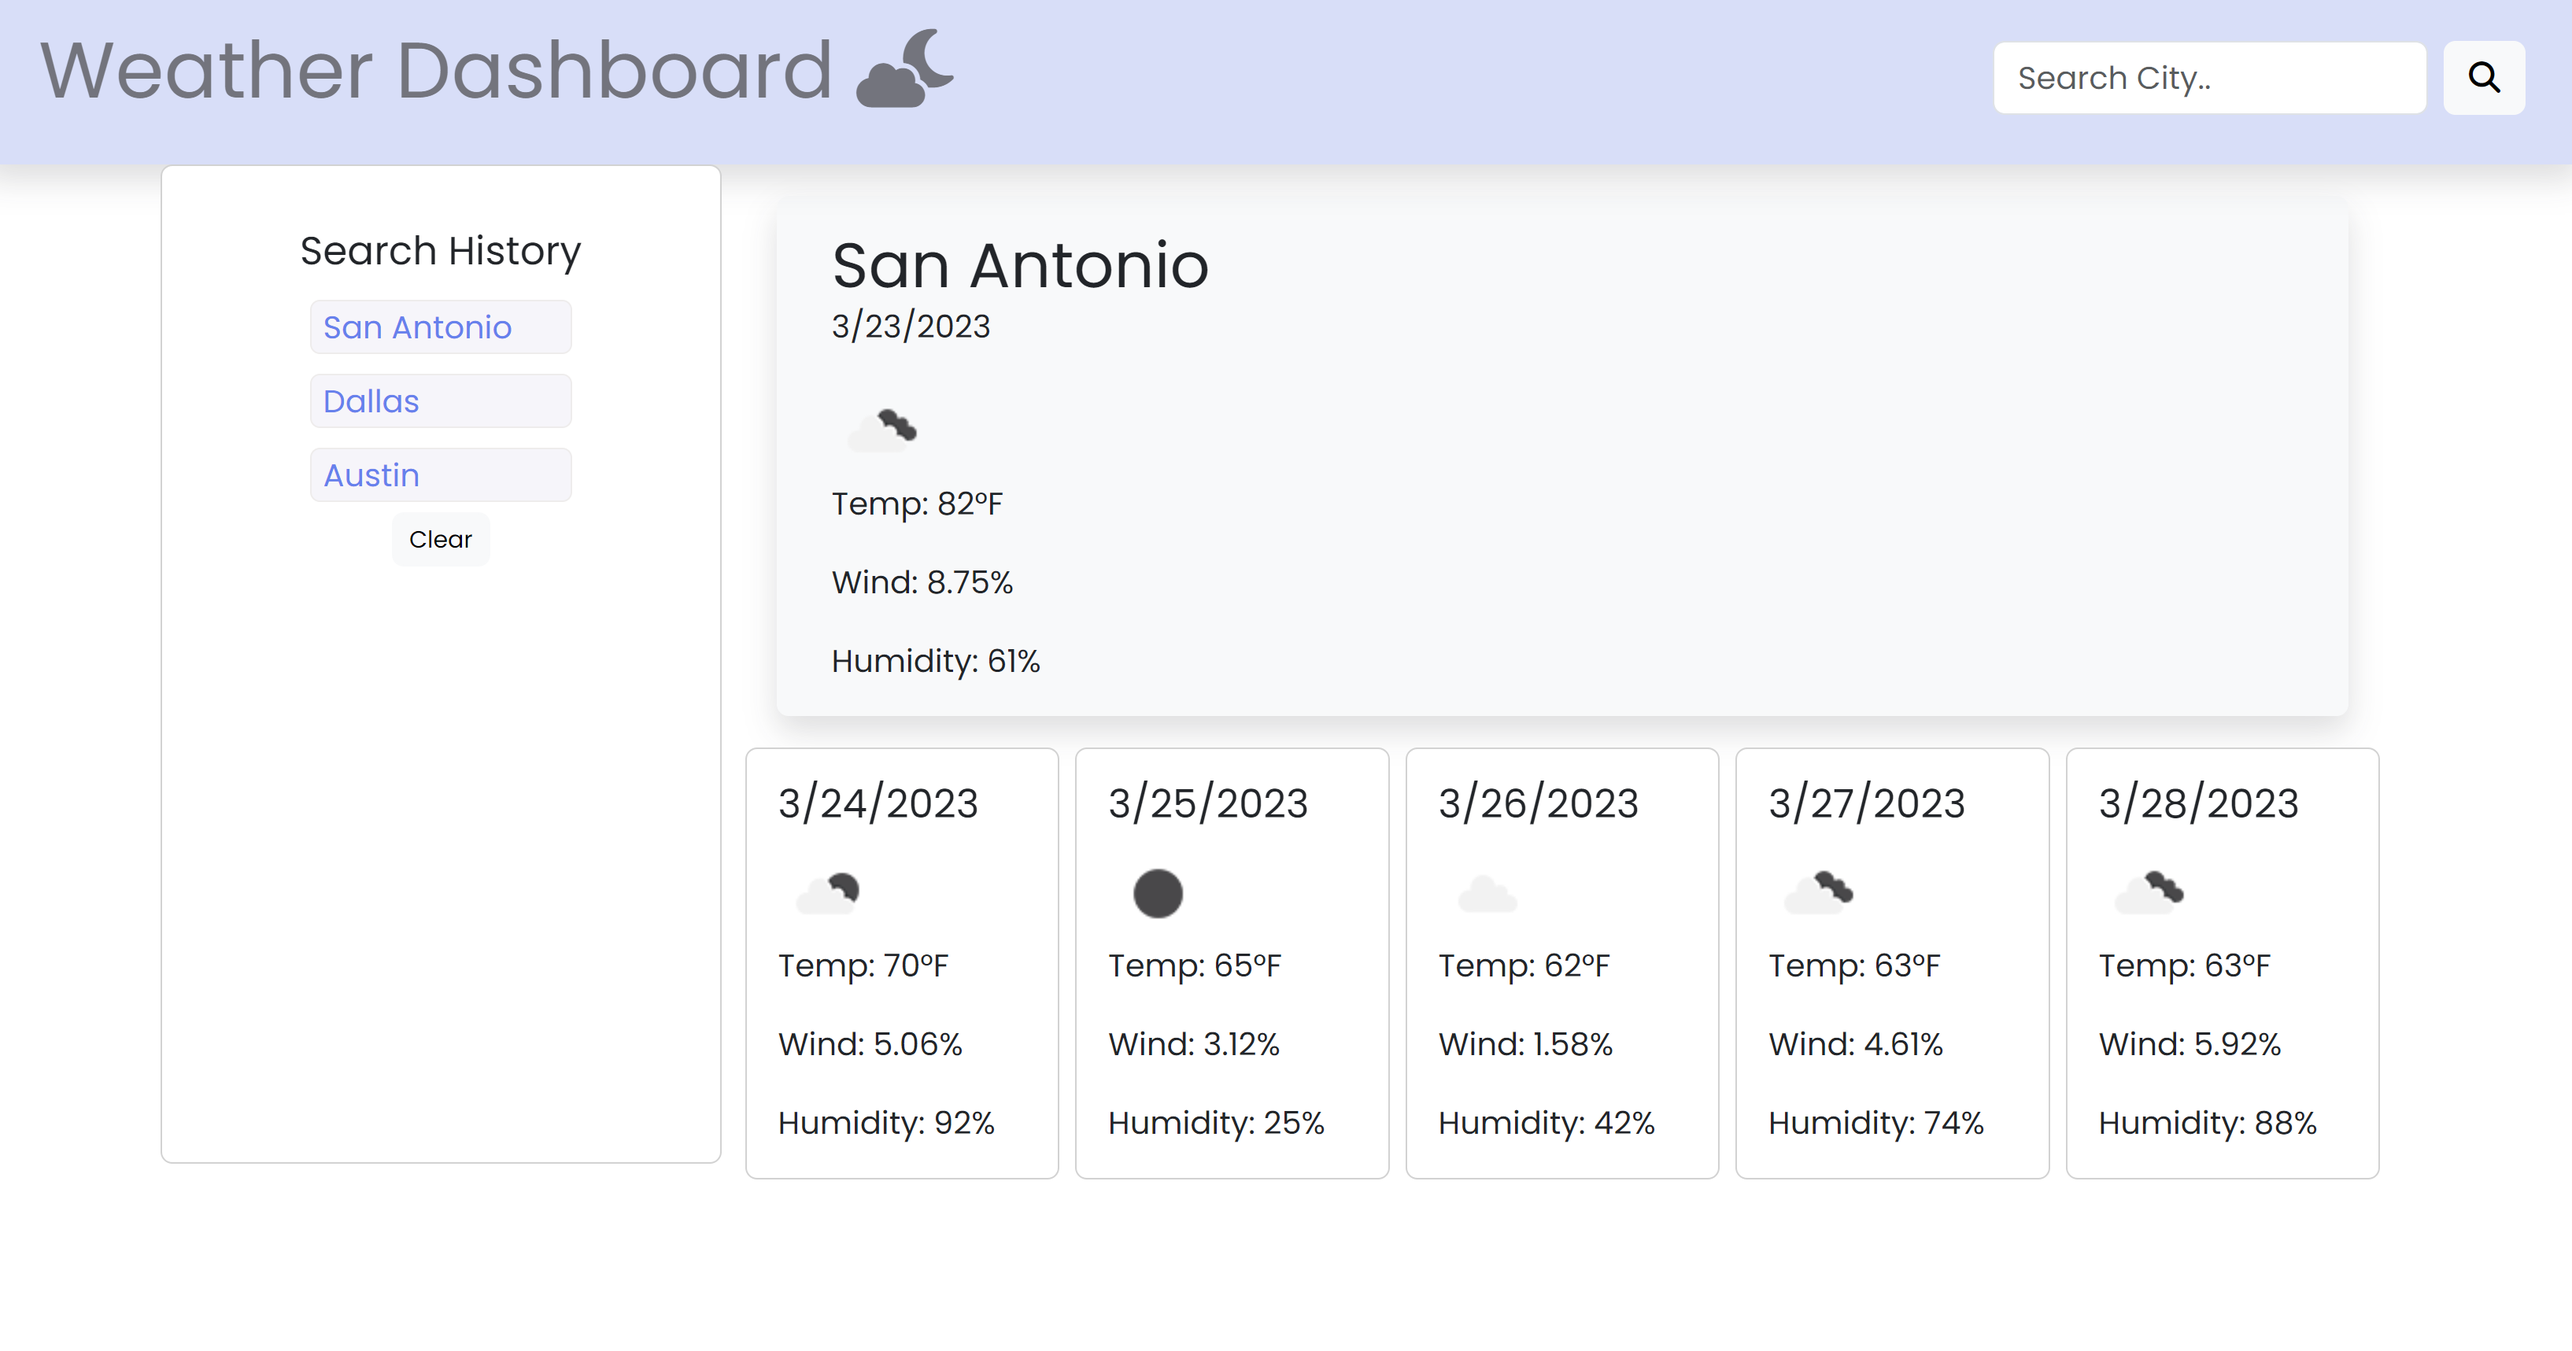
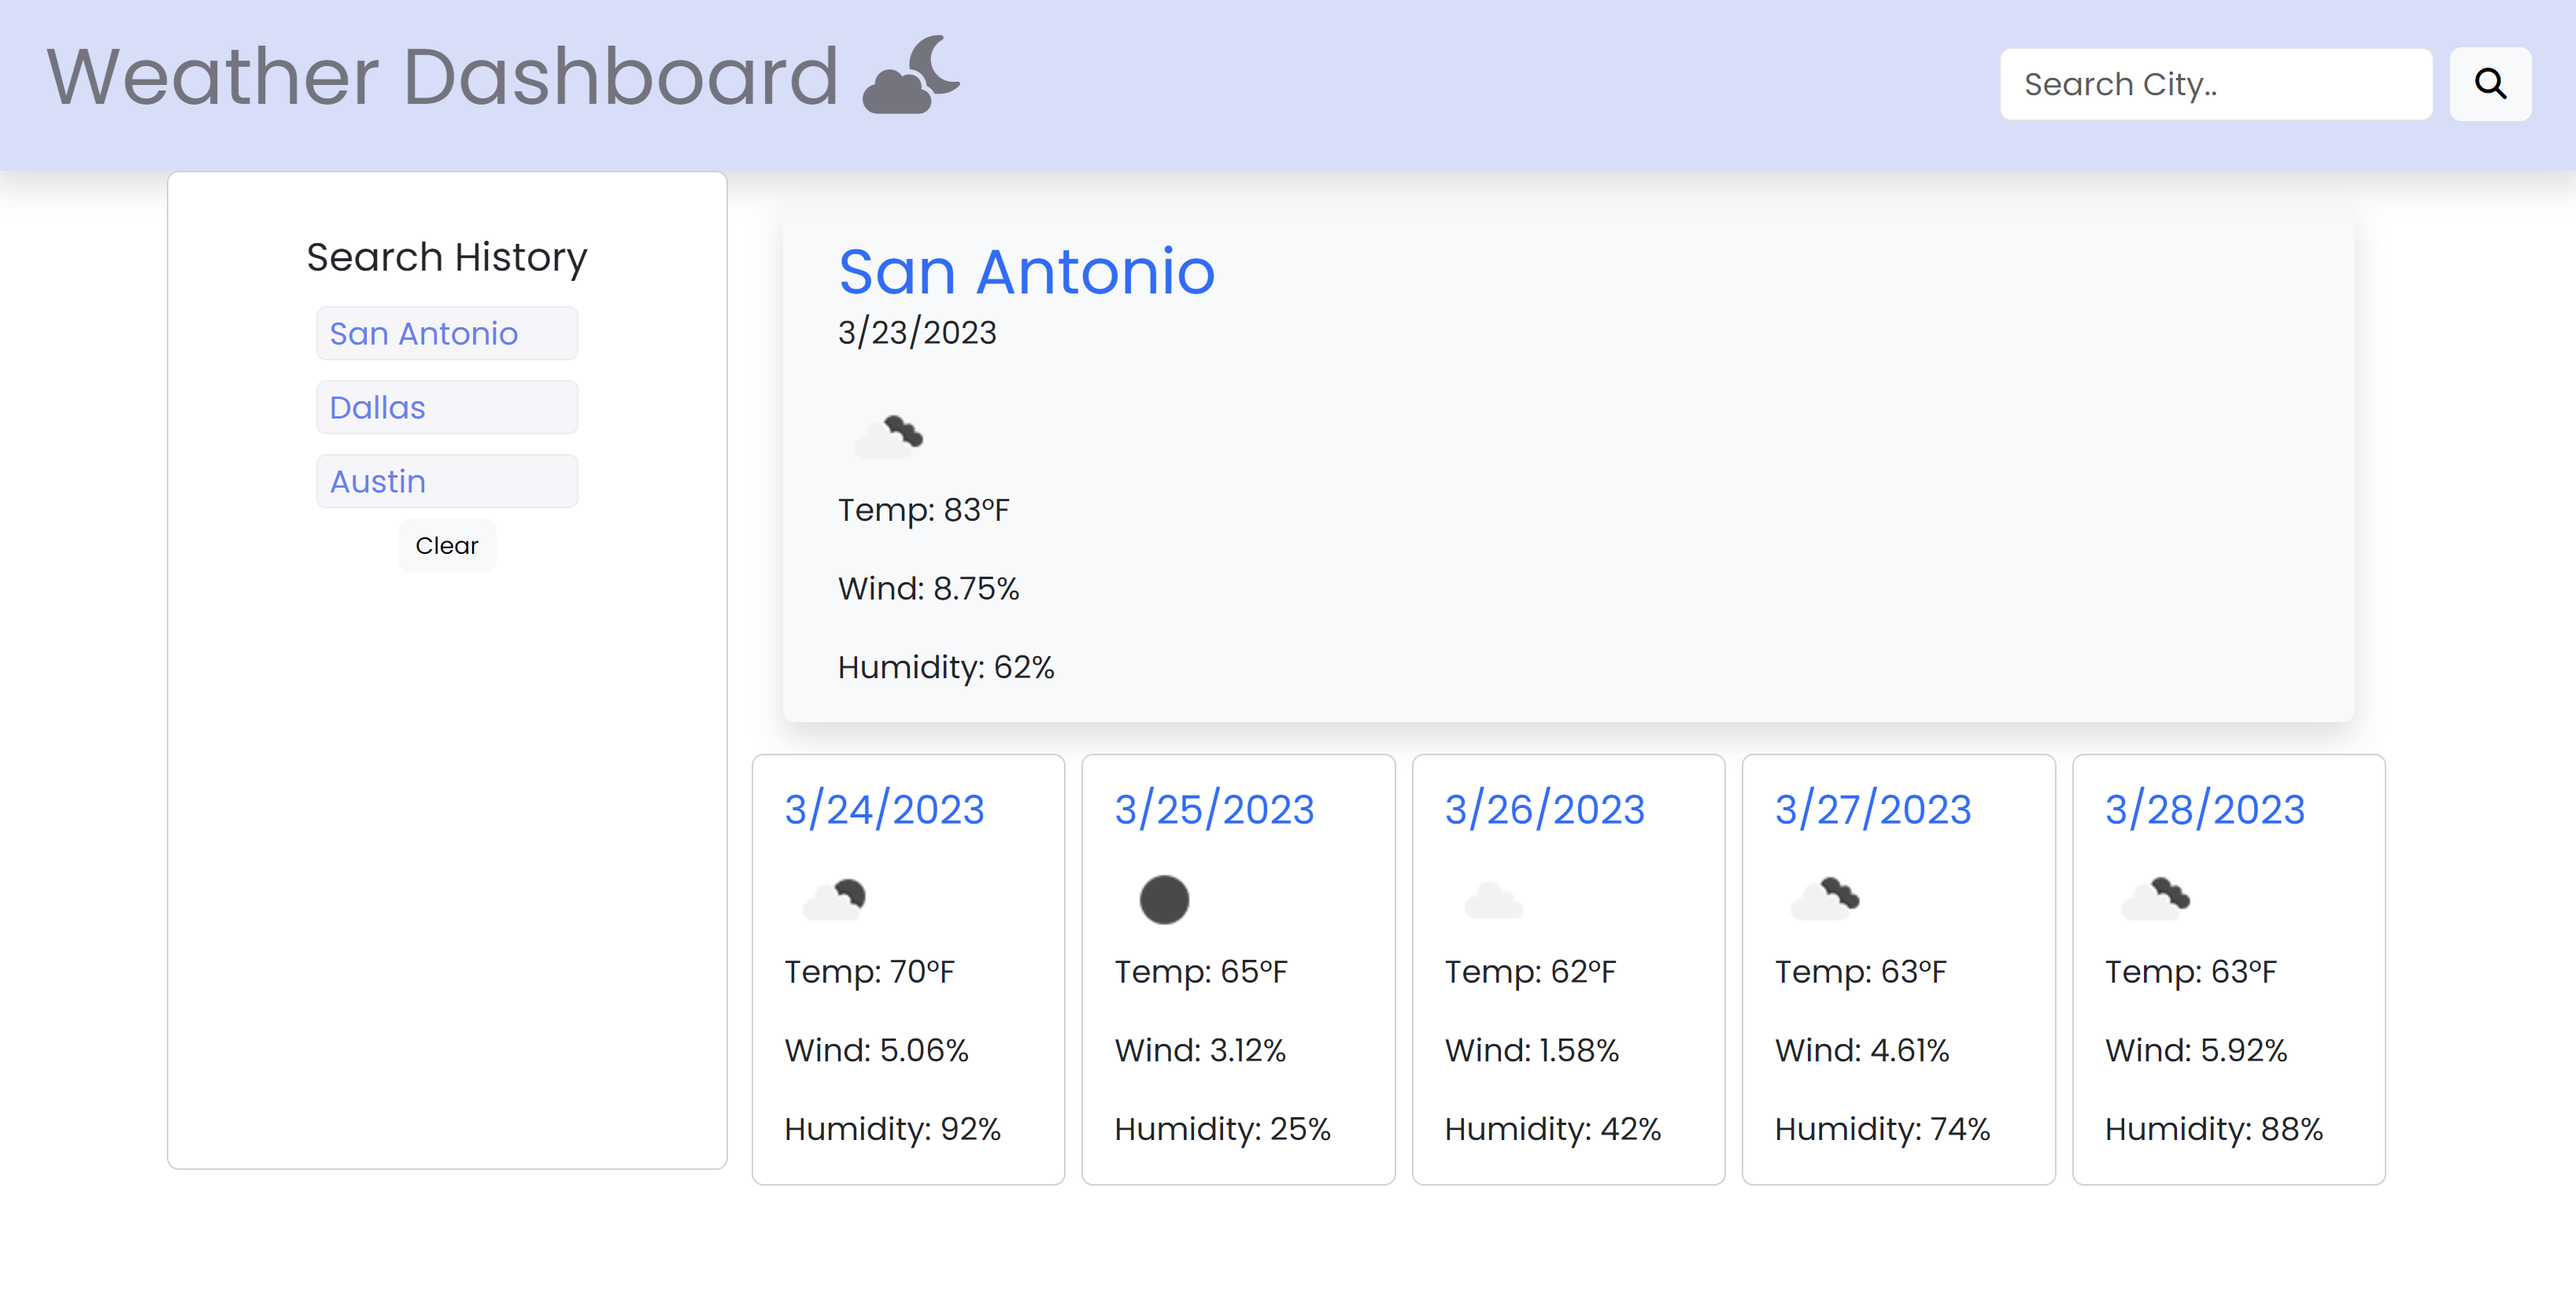
changed font colors for card titles

diff --git a/index.html b/index.html
@@ -30,7 +30,7 @@
             <!-- Side bar for Searched Cities -->
             <div class="card text-center mb-2 bg-#5F82F4 search-city-card col-sm-3">
               <div class="card-body">
-                <h5 class="card-title text-#5F82F4">Search History</h5>
+                <h5 class="card-title">Search History</h5>
                 <div id="search-history-list" class="list-group"></div>
                 <button id="clear-btn"class="btn btn-light" type="submit" style="--bs-btn-padding-y: .25rem; --bs-btn-padding-x: .5rem; --bs-btn-font-size: .75rem;">Clear</button>
               </div>
